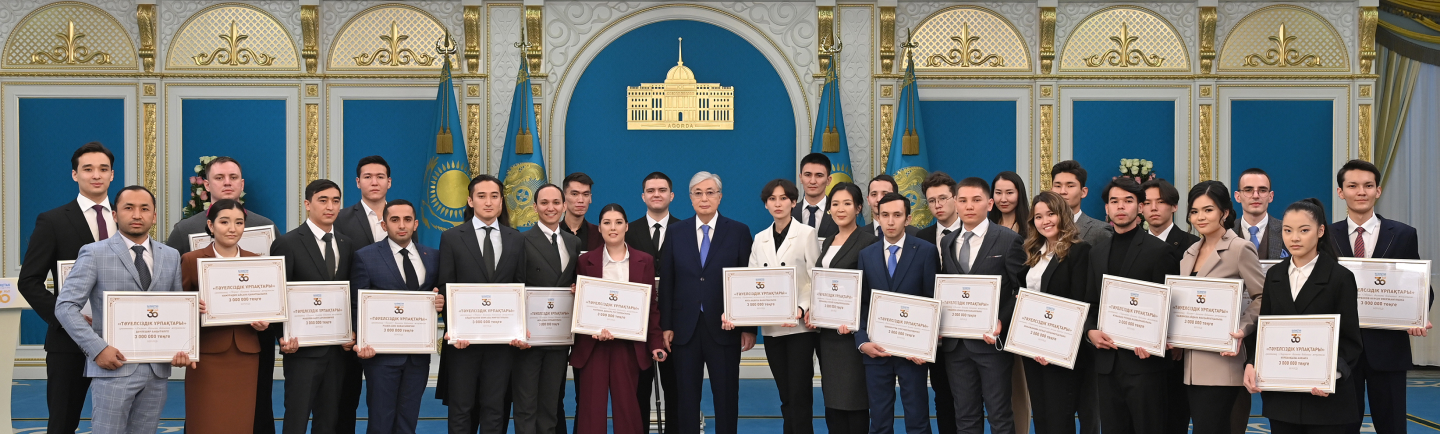
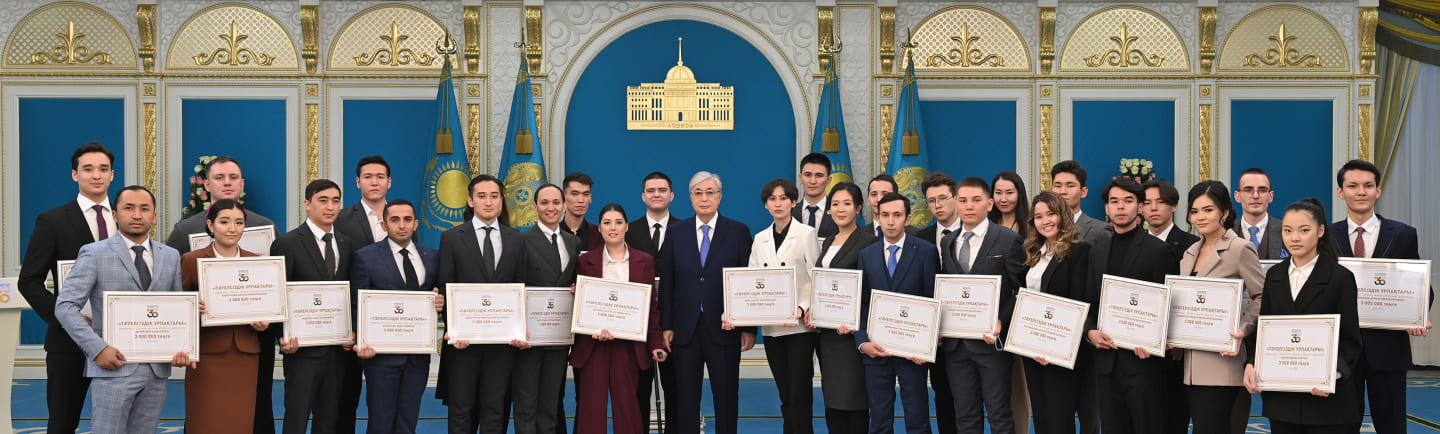
compress images in Main page

diff --git a/src/components/Pages/Archive/FilterWinner/FilterWinner.jsx b/src/components/Pages/Archive/FilterWinner/FilterWinner.jsx
@@ -33,12 +33,6 @@ const FilterWinner = () => {
                         )
                     })
                 }
-
-                {/* <FilterButton>Наука</FilterButton>*/}
-                {/* <FilterButton>Культура</FilterButton>*/}
-                {/* <FilterButton active={true}>Информационные технологии</FilterButton>*/}
-                {/* <FilterButton>Бизнес</FilterButton>*/}
-                {/* <FilterButton>Медиа</FilterButton>*/}
             </div>
         </div>
     );
